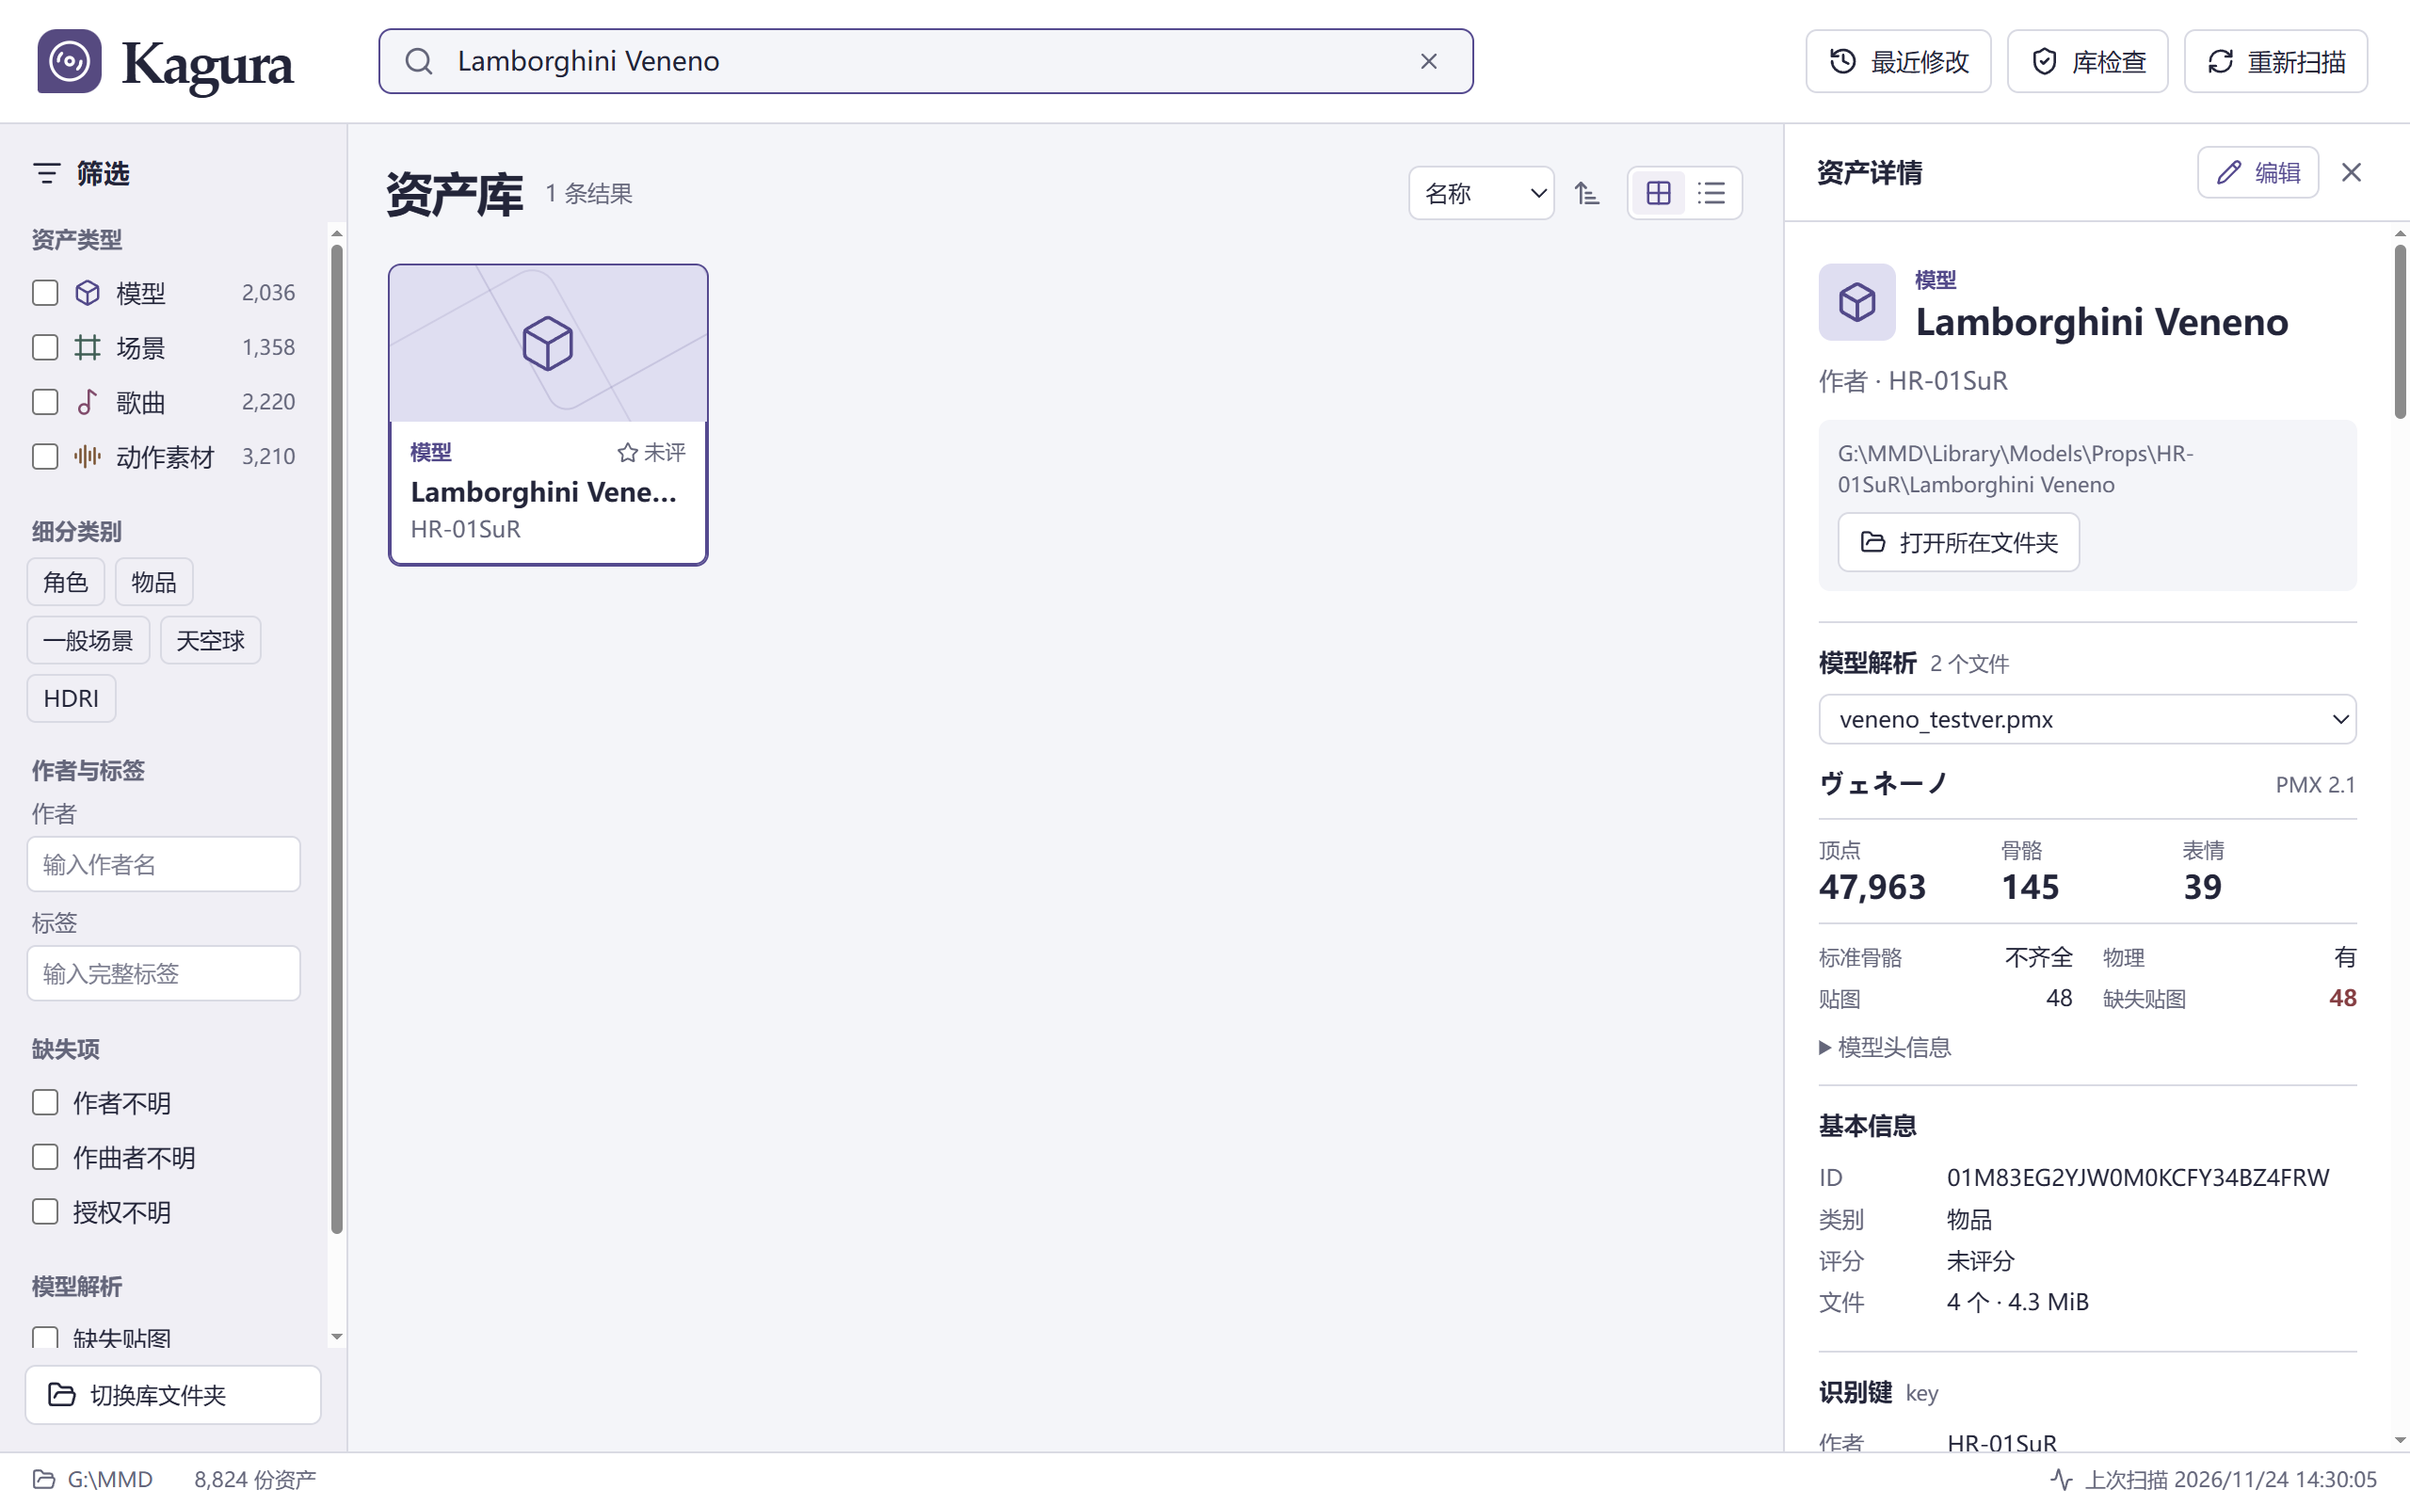
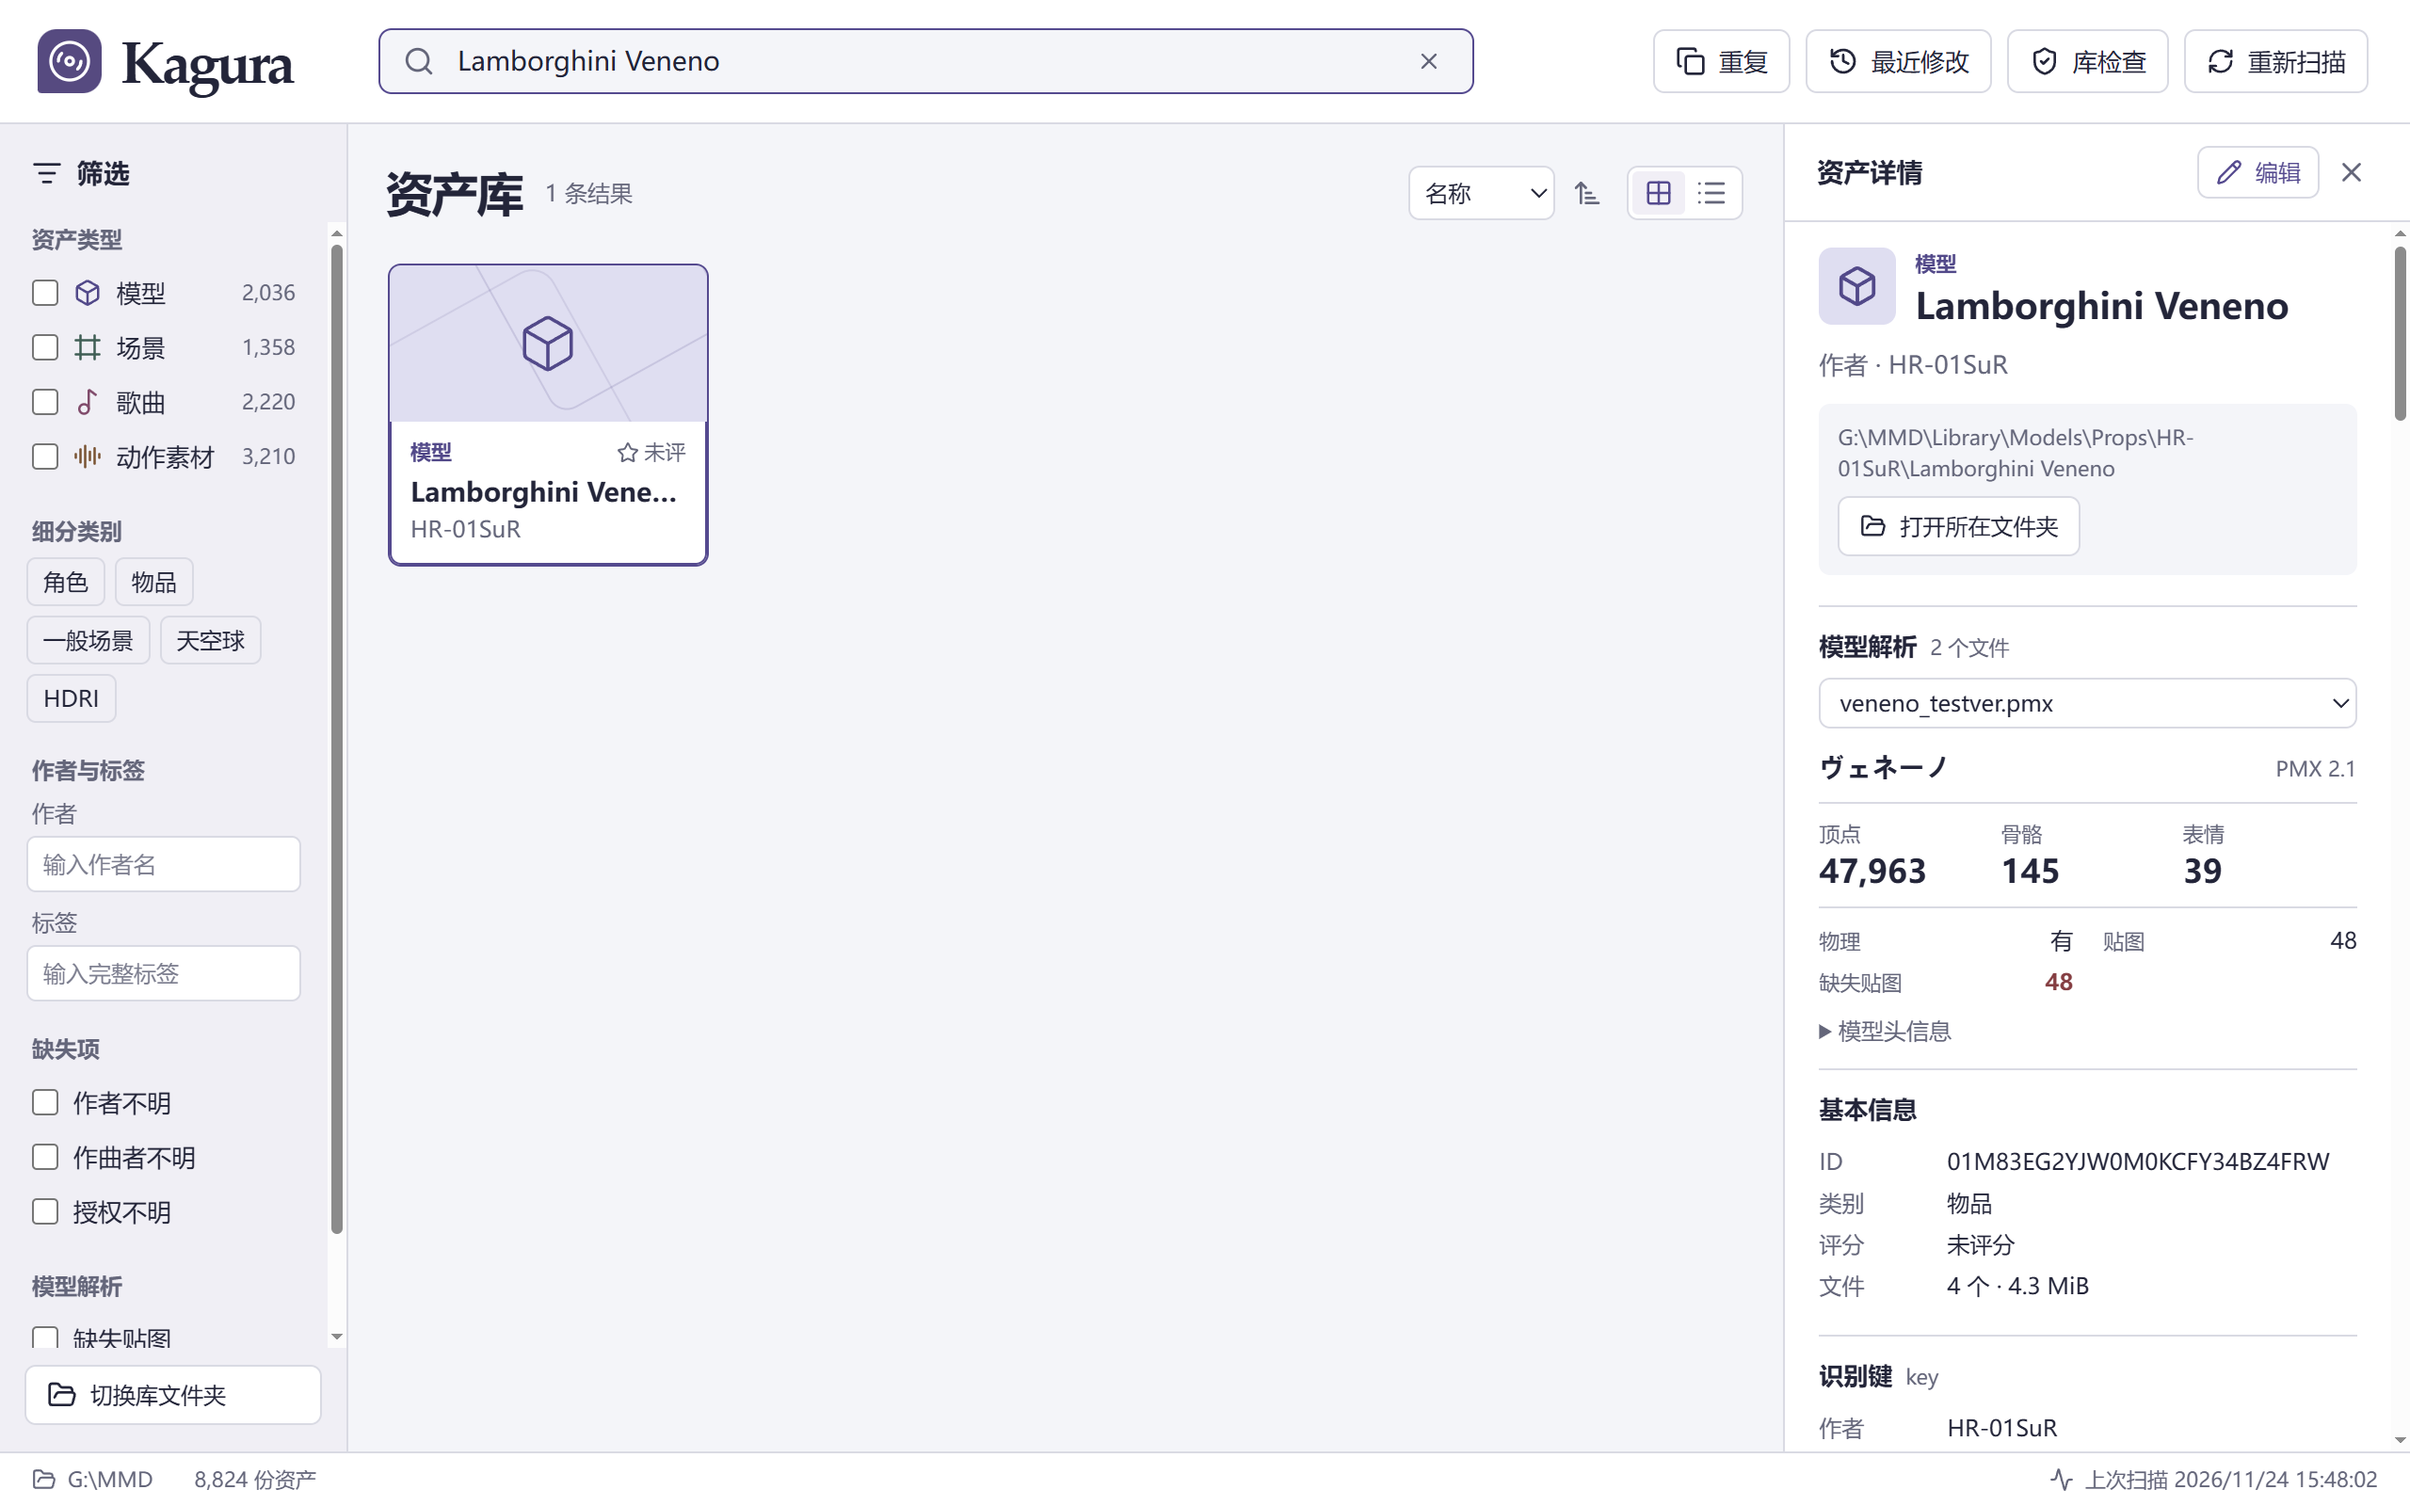
记录 M4.3 全库去重实测、操作说明与桌面截图

diff --git a/docs/core-design.md b/docs/core-design.md
@@ -183,9 +183,60 @@ cargo run -p kagura-core --release --example build_index -- G:\MMD
 
 ### 3.8 `hash`
 
-- `index` 默认只读取负载文件的元数据。`hash_asset(id)` 按需流式计算 BLAKE3 并按大小和纳秒修改时间复用缓存。`hash_all(progress_cb)` 逐资产写回，每处理一个文件都报告进度（含缓存命中）。扫描重建后可以重新计算摘要。
-- 真实库测试中，额外设置 `KAGURA_INDEX_HASH_SAMPLE=1` 可试算 20 份资产。每类按 ID 取前五份负载非空且总大小不超过 64 MiB 的资产，再验证第二次全部命中缓存。
-- 迁移日志里记的是 SHA-256。要校验旧日志时，单独提供一个 SHA-256 函数，只用于这个场景。
+负载文件来自索引的 `files` 表，摘要保存在该表的 `blake3` 列。按需使用 `hash_asset`、`hash_all` 或供后台任务使用的 `hash_all_parallel`。它们共用路径检查、流式 BLAKE3 和缓存写入逻辑。并行版本按文件分配 1～4 个读取线程，默认 4 个。各自使用 256 KiB 缓冲区；大小与纳秒 mtime 相同的已哈希文件直接复用。新文件经扫描进入清单。写缓存前复核库根、资产归属、路径和文件状态。
+
+桌面通过独立 SQLite 连接执行后台任务。进度包含总量、已完成字节和文件数、复用量、读取速度和预计剩余秒数。暂停或取消可在大文件中途生效，已读完文件的摘要分批提交并保留，尚未读完的文件下次从头读取。可用 `cargo run -p kagura-core --release --example hash_library -- G:\MMD 4` 运行同一流程。Windows 下的 `hash_bench -- --uncached G:\MMD` 可绕开系统文件缓存比较线程数。
+
+**文件重复。** `Index::duplicate_report(options)` 在一个一致的 SQLite 快照中按内容分组。每组至少两份；可回收逻辑字节数为单份大小乘以多余份数。涉及两个或更多资产的整组归入跨资产，其余归入资产内。两类分别按可回收字节数降序排列。扩展名统一小写；同一内容有不同后缀时，先按资产目录和相对路径留第一份，其余各自计入实际后缀，避免重复累加。物理文件共享、压缩和资产引用都会影响真正能释放的空间。
+
+默认隐藏负载小于 4,096 字节的文件、大小写无关的 `toon01.bmp` 至 `toon10.bmp`，以及场景中大小至多 64 KiB、文件名含 `controller`、`コントローラ` 或 `控制器` 的 PMX/PMD。三个条件可分别切换。部分哈希也能浏览文件组，报告同时给出覆盖率。
+
+**资产重复。** 仅比较负载非空且所有文件均已哈希的资产。按所有不同内容的哈希集合分组，包含文件筛选中被隐藏的负载；文件名、目录层级和相同内容在单份资产内的重复次数不影响判定。相等集合列为疑似整份重复，严格子集列出有方向的资产对。相等组按单份集合的不同内容总字节数降序排列。候选超集从最少见哈希的倒排表中取得，再验证集合包含关系。桌面分页浏览结果，JSON 导出完整快照。
+
+#### 真实库去重验收（2026-11-24）
+
+G 盘为 NVMe SSD。从空哈希缓存读取 102,431 个负载文件，共 179,539,870,038 字节。4 线程全库哈希并写入缓存用时 195.518 秒，平均 876.06 MiB/s，另计增量扫描 0.902 秒。Windows 无缓存测试使用九组不重叠的分层样本，每组 496 个文件，三轮轮换线程数，每档合计读取约 2.24 GiB。1、2、4 线程分别为 247.97、483.92、858.61 MiB/s。
+
+| 文件范围 | 重复组 | 参与路径 | 可回收逻辑字节 |
+|---|---:|---:|---:|
+| 默认 · 跨资产 | 8,270 | 32,234 | 27,845,345,169 |
+| 默认 · 资产内 | 905 | 2,365 | 2,119,418,444 |
+| 默认 · 合计 | 9,175 | 34,599 | 29,964,763,613 |
+| 显示全部 · 跨资产 | 9,747 | 40,777 | 27,856,333,052 |
+| 显示全部 · 资产内 | 1,041 | 2,702 | 2,119,686,531 |
+| 显示全部 · 合计 | 10,788 | 43,479 | 29,976,019,583 |
+
+无变化时复核哈希用时 4.949 秒，102,431 个文件全部命中缓存，另计清单更新 0.567 秒。从现有缓存生成默认报告用时约 0.13 秒。8,824 份资产中有 6,935 份拥有非空负载，均完成哈希。发现 94 组疑似整份重复，涉及 189 份资产，另有 300 对严格子集。Rust 与独立 Python 查询对两种筛选口径、扩展名前十和整份重复前十的结果一致。
+
+按默认筛选统计，可回收逻辑字节最多的十种扩展名如下。
+
+| 扩展名 | 涉及组数 | 文件数 | 可回收字节 |
+|---|---:|---:|---:|
+| tga | 794 | 3,647 | 7,895,070,193 |
+| wav | 213 | 432 | 7,127,258,284 |
+| png | 3,512 | 11,679 | 4,324,699,356 |
+| bmp | 1,594 | 8,014 | 3,221,081,938 |
+| vmd | 1,140 | 2,316 | 2,029,286,638 |
+| avi | 1 | 2 | 1,918,765,400 |
+| pmx | 341 | 765 | 1,034,851,685 |
+| spa | 313 | 1,997 | 560,163,432 |
+| dds | 125 | 563 | 465,884,652 |
+| x | 139 | 305 | 350,654,097 |
+
+疑似整份重复的前十组按单份去重后字节数排列。表中同一首歌的两个包均为独立的素材资产。
+
+| 资产目录或归属差异 | 资产数 | 不同内容数 | 单份字节数 |
+|---|---:|---:|---:|
+| Dream of You 下的普通 pack 与带 CHUNG HA 后缀的 pack | 2 | 18 | 126,678,940 |
+| Tda Haku Crazy，分别归于 InoriAruma On DeviantArt 和 _Unknown | 2 | 51 | 74,645,630 |
+| Tda Haku Long Pajama Shirt，原名、(Tda Haku a)、(Tda inori) | 3 | 33 | 64,864,162 |
+| nac_platinaDR 与『プラチナ』-shin'in future Mix- DANCEROIDver 的 pack | 2 | 5 | 59,526,412 |
+| モンテコア名下的 CHIRNO_MMD 与 Montecore Cirno | 2 | 19 | 56,992,661 |
+| Midas Touch 下的普通 pack 与带 KISS OF LIFE 后缀的 pack | 2 | 12 | 55,716,525 |
+| 场景「京都花火祭」与「红龙舟（有内室）」 | 2 | 30 | 55,437,566 |
+| Savage 下的普通 pack 与带 aespa 后缀的 pack | 2 | 7 | 50,970,375 |
+| Bon Bon Chocolat 下的普通 pack 与带 EVERGLOW 后缀的 pack | 2 | 5 | 48,365,860 |
+| Next Level 下的普通 pack 与带 aespa 后缀的 pack | 2 | 11 | 46,933,650 |
 
 ### 3.9 `txn`（M3 单份 manifest 编辑）
 

diff --git a/docs/ui.md b/docs/ui.md
@@ -18,12 +18,21 @@
 | [编辑场景](screenshots/edit.png) | 详情面板中的评分、标签、简评和来源链接。 |
 | [模型解析](screenshots/model-parse.png) | Lamborghini Veneno 的 PMX 2.1 变体，可见顶点、骨骼、表情和缺失贴图数。 |
 | [动作解析](screenshots/motion-parse.png) | ECHO 素材包的 len.vmd，显示目标模型、最大帧号、时长及各类关键帧数。 |
+| [重复报告](screenshots/duplicates.png) | 真实库的哈希覆盖率、跨资产与资产内重复空间、整份重复和扩展名分布。 |
 
 ## 模型与动作解析
 
 打开库或点击「重新扫描」后即可继续浏览。底栏显示后台解析进度；已经缓存的文件直接显示结果。资产内有多个模型或动作时，在详情的「模型解析」或「动作解析」下拉框切换文件。模型优先选中 manifest 声明的主变体。「模型头信息」可展开双语注释、编码、面数及物理计数。动作的最大帧号从零开始，秒数按每秒 30 帧折算，同一文件可以同时包含动作与表情。遇到读取失败，文件详情显示出错段、字节偏移和原因。
 
 左侧「缺失贴图」筛出至少一个声明变体存在缺图的模型。「非标准骨骼（角色）」仅检查角色的声明变体，道具详情隐藏标准骨骼标记。两项分别命中 227 份模型和 120 份角色，组合命中 24 份角色。
+
+## 重复
+
+在顶部选择「重复」。总览显示哈希覆盖率、跨资产和同一资产内的重复量、扩展名分布。可设置读取线程数（1～4，默认 4），开始、暂停、继续或取消后台计算。离开此页可以继续浏览；下次运行会复用已完成文件的哈希。进度同时显示已读字节、文件数、速度和预计剩余时间。
+
+进入跨资产或资产内文件组，展开可查看每份副本所属资产和相对路径。「打开所在文件夹」定位到该文件的实际父目录。小文件、通用 toon 和小型场景控制器可分别显示。整份重复和子集页使用全部已哈希负载，点击目录按钮打开相应资产根。可回收量按内容大小计算。确认两份资产的用途、引用和授权后，再决定是否进入后续整理草稿。
+
+「导出 JSON」通过系统保存对话框将当前筛选的完整报告写至库外，包含跨资产组、资产内组、整份和子集。浏览、切换排除项或导出只读取资产库。
 
 ## 编辑与撤回
 
@@ -41,6 +50,9 @@
 | `open_library(root)` | 校验库根、打开或更新索引、保存设置，并返回库统计。 |
 | `rescan`、`stats` | 增量扫描并返回资产和文件变更数，或读取当前库的统计与扫描时间。 |
 | `parse_status`、`parse-progress` 事件 | 读取后台解析快照或订阅当前库的解析进度、完成与中断状态。 |
+| `hash_status`、`start_hash(threads)`、`pause_hash`、`cancel_hash`、`hash-progress` 事件 | 控制可续算的 BLAKE3 任务，查询或订阅进度。 |
+| `dedup_page(options, section, offset, limit)`、`export_duplicates(options)` | 浏览各类重复关系，或使用系统保存对话框导出完整 JSON 报告。 |
+| `open_copy_folder(id, rel)` | 核验文件属于该资产，打开副本的实际父目录。 |
 | `search(query, filters, sort, limit, offset)` | 返回当前页、总数和短词搜索标记。 |
 | `get_asset(id)`、`song_children(songId)` | 读取完整 manifest、绝对路径、文件摘要、双向引用，或列出歌曲的素材。 |
 | `open_folder(id)` | 从资产 ID 解析目录，验证其位于选中的 Library 内，再打开资源管理器。 |
